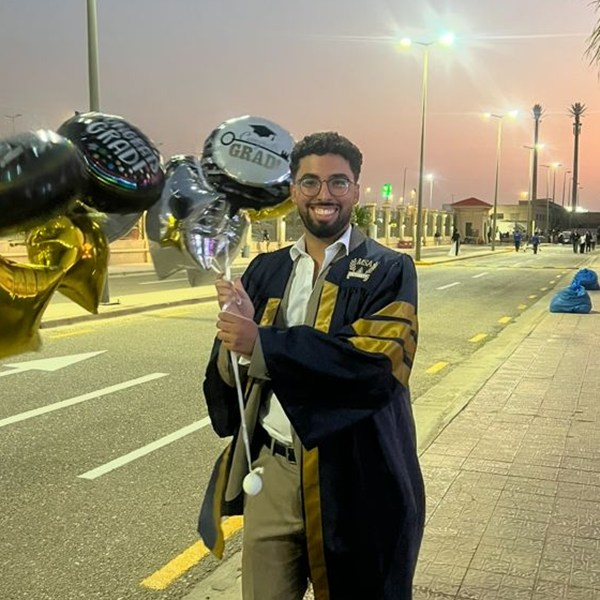
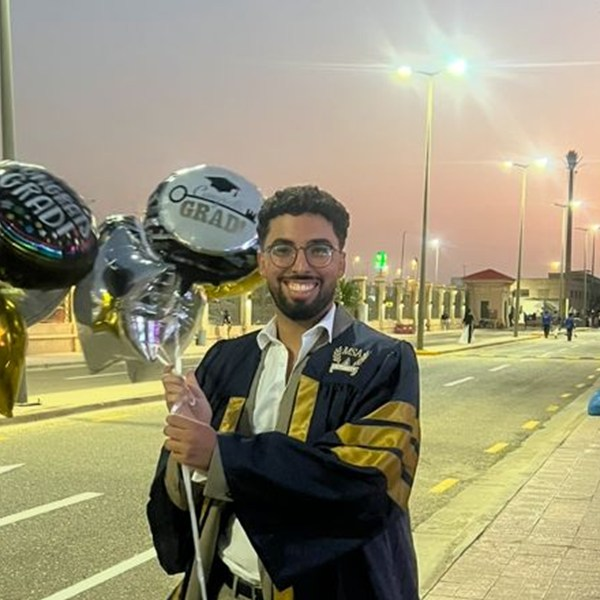
Zoom About portrait tighter on face

diff --git a/assets/css/style.css b/assets/css/style.css
@@ -302,7 +302,7 @@ main.page { padding-top: 68px; }
   height: 300px;
   border-radius: 50%;
   object-fit: cover;
-  object-position: center 38%;
+  object-position: center center;
   border: 3px solid var(--accent);
   box-shadow: 0 0 50px rgba(45, 212, 191, 0.22);
 }
